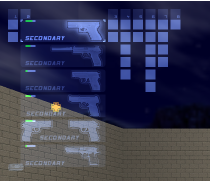
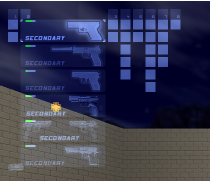
docs: refresh the HUD proof evidence from the run on the merged branch

Changed region(s): [[0.3143, 0.5249, 0.4857, 0.8011], [0.0857, 0.6077, 0.3714, 0.8011]]

diff --git a/docs/hud-architecture.md b/docs/hud-architecture.md
@@ -302,10 +302,10 @@ plugins (the hook namespaces are `Game`, `Monster`, `PickupObject`, `Player` and
 
 Measured on the test server and client (the proof logs the rates every 5 s):
 
-- Tick: 18.0–19.1 per second in three runs, not 20. The scheduler runs only in server frames, so each period is a little
+- Tick: 17.6–19.1 per second in five runs, not 20. The scheduler runs only in server frames, so each period is a little
   longer than 0.05 s. `OnTick` gets the real time step as `dt`.
-- `PlayerPostThink`: 24–87 per second, the frame rate of the test client. A fast client gives more calls. An every-frame
-  element must send only when its picture changes.
+- `PlayerPostThink`: 5–87 per second, the frame rate of the test client (the low values when other test clients loaded
+  the machine). A fast client gives more calls. An every-frame element must send only when its picture changes.
 
 ### When elements draw again
 
@@ -366,7 +366,7 @@ Evidence (the proof element on testcenter before the merge of `fc34436`, a shot 
 | the same, and the proof also precaches the sheet as a model                                | solid blocks                                                     |
 | `cs16/640hud7.spr`: generic precache, weapon txts. A copy: model precache, custom elements | all sprites correct                                              |
 | a copy only for the proof: generic precache, custom elements                               | proof sprites correct, money sign on `640hud7.spr` a solid block |
-| this branch: `cs16/640hud7.spr` with generic precache, weapon txts, custom elements        | all sprites correct (the proof)                                  |
+| `cs16/640hud7.spr`: generic precache (the `BuyMenu.as` fix), weapon txts, custom elements  | all sprites correct (the proof)                                  |
 
 The cause is not proved in the client binary. A model precache seems to give the sheet the lifetime of a level model,
 while the HUD sprite table keeps its handle across levels (`sven-client-hud.md` 1.12). The solid block is what the
@@ -420,8 +420,9 @@ The scenario writes `report.json` and the crops to `.e2e/proof`. It exits with a
 
 ### Results
 
-Last run: map testcenter, client at 1600×900 on Xvfb (Mesa llvmpipe), `hud_bordersize` 16. All 55 checks passed. In each
-crop below, the top part is with `cs16_hud 1` and the next part is with `cs16_hud 0`.
+Last run: this branch after the merge of `main`, map testcenter, client at 1600×900 on Xvfb (Mesa llvmpipe),
+`hud_bordersize` 16, machine load average 66 from other test clients. All 55 checks passed. In each crop below, the top
+part is with `cs16_hud 1` and the next part is with `cs16_hud 0`.
 
 **(a) Raw sprites at exact pixels.** With `ABSOLUTE` and `NO_BORDER`, x ≥ 0 is the left edge and a negative x puts the
 right edge −x pixels from the screen edge (`sven-client-hud.md` 1.5). Thus the cross rect starts at (100, 200) and the
@@ -467,8 +468,8 @@ the same place and view. The sprite boxes after these events are in (a).
 
 ![texts after changelevel, cs16_hud 0 and 1](hud-architecture/d-changelevel-texts.png)
 
-Before the precache fix, the same `changelevel` broke every sprite from `640hud7.spr` (row 1: before, row 2: after the
-`changelevel` with the model precache, row 3: after the `changelevel` with this branch):
+Before the merge of `fc34436` and without the precache fix, the same `changelevel` broke every sprite from `640hud7.spr`
+(row 1: before, row 2: after the `changelevel` with the model precache, row 3: after it with the generic precache):
 
 ![changelevel with and without the model precache](hud-architecture/f-changelevel-model-precache.png)
 
